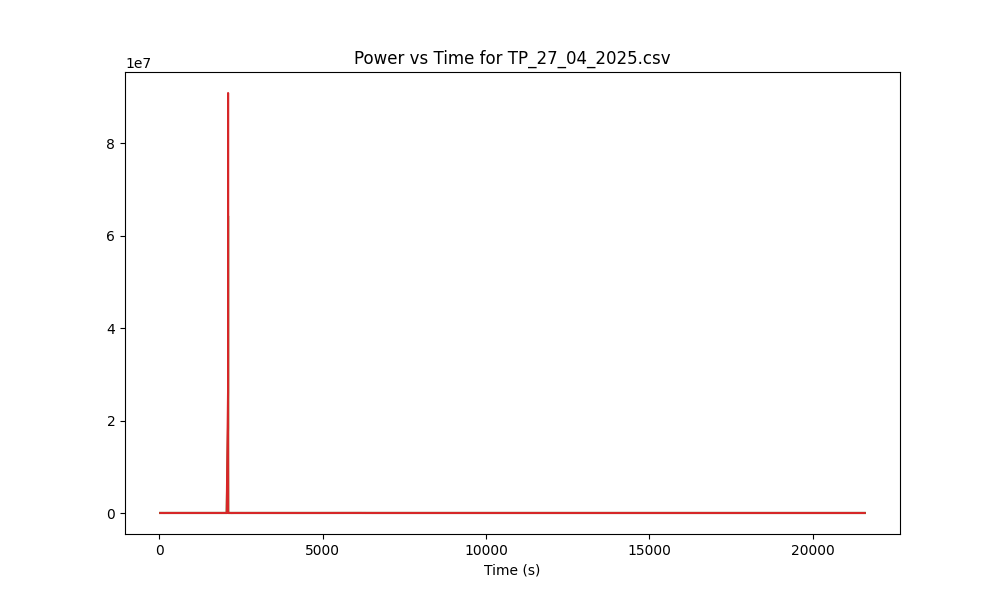
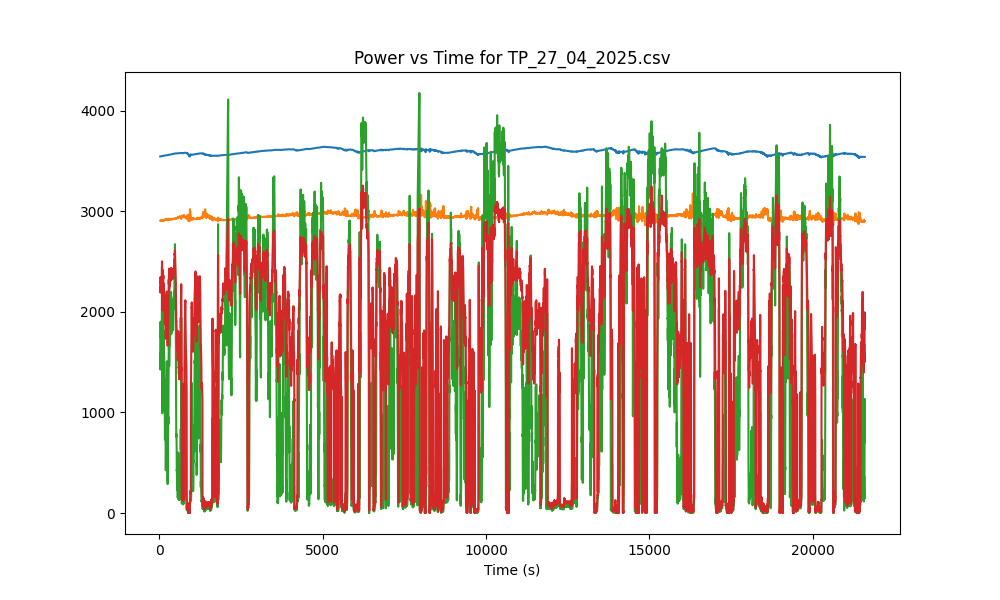
checked sizing values

diff --git a/Battery_Modelling/Modelling/races.py b/Battery_Modelling/Modelling/races.py
@@ -12,8 +12,8 @@ def get_race_results(output_folder="Output"):
     races = sva.make_race_dictionnary()
     race_results = {}
     for race_name, race_data in races.items():
+        fig, axs = plt.subplots(3, 1, figsize=(12, 10), sharex=True)  # Create subplots
         race_configurations_plot = []
-        plt.figure(figsize=(10, 6))  # Create a new figure for each race
         for i in range(4):
             race_plot = []
             if i == 0:
@@ -32,10 +32,12 @@ def get_race_results(output_folder="Output"):
             t = 0
             time_plot = []
             power_plot = []
+            speed_plot = []
+            gradient_plot = []
             for index, row in race_data.iterrows():
                 time = row[" time"]  # Access directly from DataFrame row
                 velocity_smooth = row[" velocity_smooth"]
-                grade_smooth = row[" grade_smooth"]
+                grade_smooth = np.arctan(row[" grade_smooth"] / 100)
                 altitude = row[" altitude"]
                 rho = sva.air_density_isa(altitude)
                 P = calculate_power(grade_smooth, velocity_smooth, rho)
@@ -44,19 +46,38 @@ def get_race_results(output_folder="Output"):
                 t = time
                 time_plot.append(time)
                 power_plot.append(P)
+                speed_plot.append(velocity_smooth)
+                gradient_plot.append(row[" grade_smooth"])
             race_plot.append([time_plot, power_plot])
             if race_name not in race_results:
                 race_results[race_name] = [0] * 4
             race_results[race_name][i] = energy / 3600  # Store energy in Wh
-            plt.plot(time_plot, power_plot, label=label)  # Plot power vs time
-        plt.title(f"Power vs Time for {race_name}")
-        plt.xlabel("Time (s)")
+            axs[0].plot(time_plot, power_plot, label=label)  # Plot power vs time in the first subplot
+        axs[1].plot(time_plot, speed_plot, label='Speed', color='black', linestyle='--')  # Plot speed vs time
+        axs[2].plot(time_plot, gradient_plot, label='Gradient', color='grey', linestyle='--')  # Plot gradient vs time
+
+        # Set titles and labels for subplots
+        axs[0].set_title(f"Power vs Time for {race_name}")
+        axs[0].set_ylabel("Power (W)")
+        axs[0].legend()
+        axs[0].grid()
+
+        axs[1].set_title("Speed vs Time")
+        axs[1].set_ylabel("Speed (m/s)")
+        axs[1].legend()
+        axs[1].grid()
+
+        axs[2].set_title("Gradient vs Time")
+        axs[2].set_xlabel("Time (s)")
+        axs[2].set_ylabel("Gradient (%)")
+        axs[2].legend()
+        axs[2].grid()
+
+        # Save the figure
         os.makedirs(output_folder, exist_ok=True)  # Ensure the output folder exists
-        output_path = os.path.join(output_folder, f"{race_name}_power_vs_time.png")
+        output_path = os.path.join(output_folder, f"{race_name}_power_speed_gradient_vs_time.png")
+        plt.tight_layout()
         plt.savefig(output_path)
-        plt.ylabel("Power (W)")
-        plt.legend()
-        plt.grid()
         plt.show()
     print(race_results)
 
@@ -82,3 +103,9 @@ def plot_power_vs_velocity():
     plt.plot(velocity,T[3], label = 'Yangda')
     plt.legend()
     plt.show()
+
+def flat_race():
+    print("UFC-MMA-1 Helicopter Energy (Wh): ",calculate_power_UFC_MMA_1(0,50/3.6,1.225)*7)
+    print("UFC-MMA-2 Quadcopter Energy (Wh): ",calculate_power_UFC_MMA_2(0,50/3.6,1.225)*7)
+    print("UFC-MMA-3 Osprey Energy (Wh): ",calculate_power_UFC_MMA_3(0,50/3.6,1.225)*7)
+    print("UFC-MMA-4 Yangda Energy (wh): ",calculate_power_UFC_MMA_4(0,50/3.6,1.225)*7)

diff --git a/Battery_Modelling/Modelling/UFC_MMA_4_Yangda.py b/Battery_Modelling/Modelling/UFC_MMA_4_Yangda.py
@@ -1,14 +1,14 @@
 import numpy as np
 
-CD0 = 0.05
-piAe = 30
-S = 1 #m^2
+CD0 = 0.0264 #same as osprey
+piAe = 20.41 #same as osprey
+S = 1.25 #m^2 x2.5 compared to research (cuz reearch is 10kg, we go 25)
 W = 250 #N
-CLmax = 2
-CL0 = 0.1
+CLmax = 1.3824 *0.9 #same as osprey
 
 
-A = 0.3
+r=0.21 #same as osprey
+A = np.pi*(r**2) #m^2
 eta = 0.8
 prop_efficiency = 0.8
 numberengines_vertical = 4
@@ -29,8 +29,8 @@ def calculate_power_UFC_MMA_4(incline,V,rho):
     else:
         CL = CLmax
         CD = CD0 + CL**2/piAe
-        L = 0.5*rho*CL*S*V**2
-        Tvertical = (np.cos(incline)*W - L)/numberengines_vertical
+        L = 0.5*rho*CL*S*V**2 * 0.5 #parameter for wake of propellers
+        Tvertical = (np.cos(incline)*W - L)/numberengines_vertical 
         Thorizontal = (0.5*rho*CD*S*V**2 + np.sin(incline)*W)/numberengines_horizontal
     Pvertical = (abs(Tvertical)**3/(2*rho*A))**0.5*(numberengines_vertical/eta)
     Phorizontal = (abs(Thorizontal)**3/(2*rho*A))**0.5*(numberengines_horizontal/eta)

diff --git a/Battery_Modelling/Modelling/UFC_MMA_3_Osprey.py b/Battery_Modelling/Modelling/UFC_MMA_3_Osprey.py
@@ -1,14 +1,16 @@
 import numpy as np
 
-CD0 = 0.05
-piAe = 30
-S = 1 #m^2
+CD0 = 0.0264 #https://www.researchgate.net/publication/351569758_Conceptual_design_of_a_fixed_wing_vertical_take-off_and_landing_unmanned_aerial_vehicle
+piAe = 20.41 #https://www.researchgate.net/publication/351569758_Conceptual_design_of_a_fixed_wing_vertical_take-off_and_landing_unmanned_aerial_vehicle
+
+S = 1.25 #m^2 x2.5 compared to research (cuz reearch is 10kg, we go 25)
 W = 250 #N
-CLmax = 2
+CLmax = 1.3824 *0.9 #https://www.researchgate.net/publication/351569758_Conceptual_design_of_a_fixed_wing_vertical_take-off_and_landing_unmanned_aerial_vehicle
 
 
 
-A = 0.3
+r=0.21 #https://www.researchgate.net/publication/351569758_Conceptual_design_of_a_fixed_wing_vertical_take-off_and_landing_unmanned_aerial_vehicle
+A = np.pi*(r**2) #m^2
 eta = 0.8
 numberengines = 2
 def calculate_power_UFC_MMA_3(incline,V,rho):

diff --git a/Battery_Modelling/Modelling/UFC_MMA_1_Helicopter.py b/Battery_Modelling/Modelling/UFC_MMA_1_Helicopter.py
@@ -1,6 +1,6 @@
 import numpy as np
 
-CD = 1.05 #https://dspace-erf.nlr.nl/server/api/core/bitstreams/0a756857-3708-4250-9524-bdbcc0020d33/content
+CD = 0.104 #https://dspace-erf.nlr.nl/server/api/core/bitstreams/0a756857-3708-4250-9524-bdbcc0020d33/content
 S = 0.3
 W = 250 #N
 

diff --git a/Battery_Modelling/Modelling/UFC_MMA_2_Quad.py b/Battery_Modelling/Modelling/UFC_MMA_2_Quad.py
@@ -1,6 +1,6 @@
 import numpy as np
 
-CD = 0.17 #https://dspace-erf.nlr.nl/server/api/core/bitstreams/0a756857-3708-4250-9524-bdbcc0020d33/content
+CD = 0.17
 
 W = 250 #N
 

diff --git a/Battery_Modelling/main.py b/Battery_Modelling/main.py
@@ -1,5 +1,6 @@
 from Modelling.races import *
 
 if __name__ == "__main__":
+    flat_race()
     get_race_results("Battery_Modelling/Output")
     plot_power_vs_velocity()
